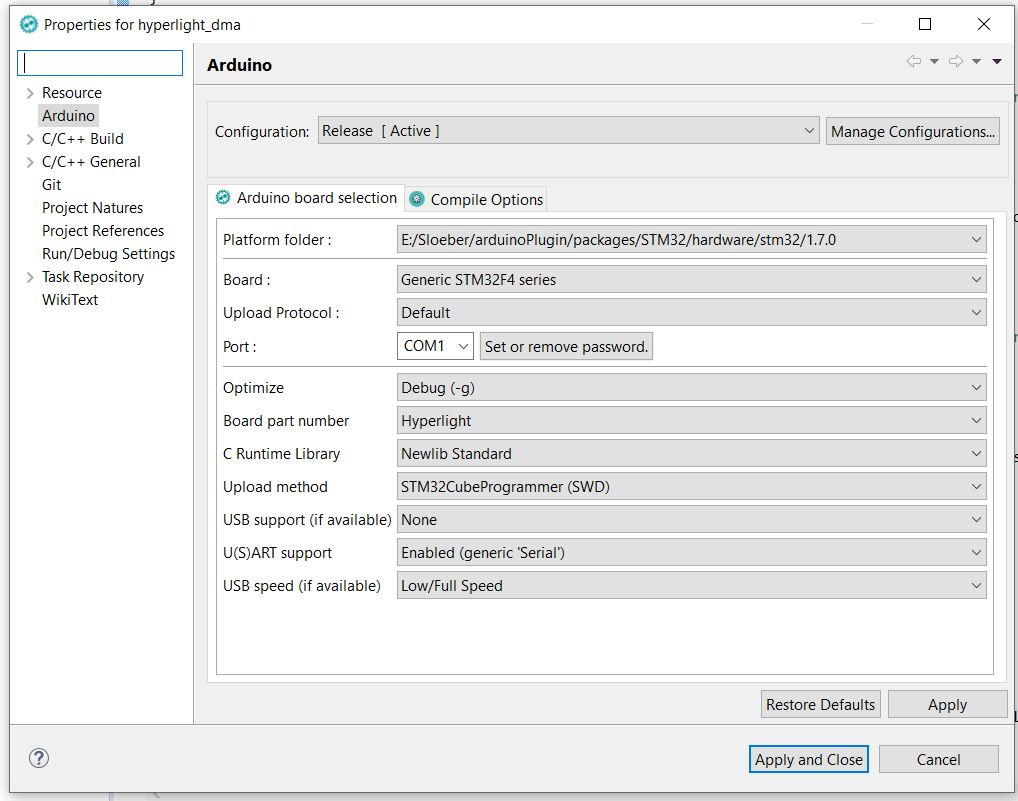
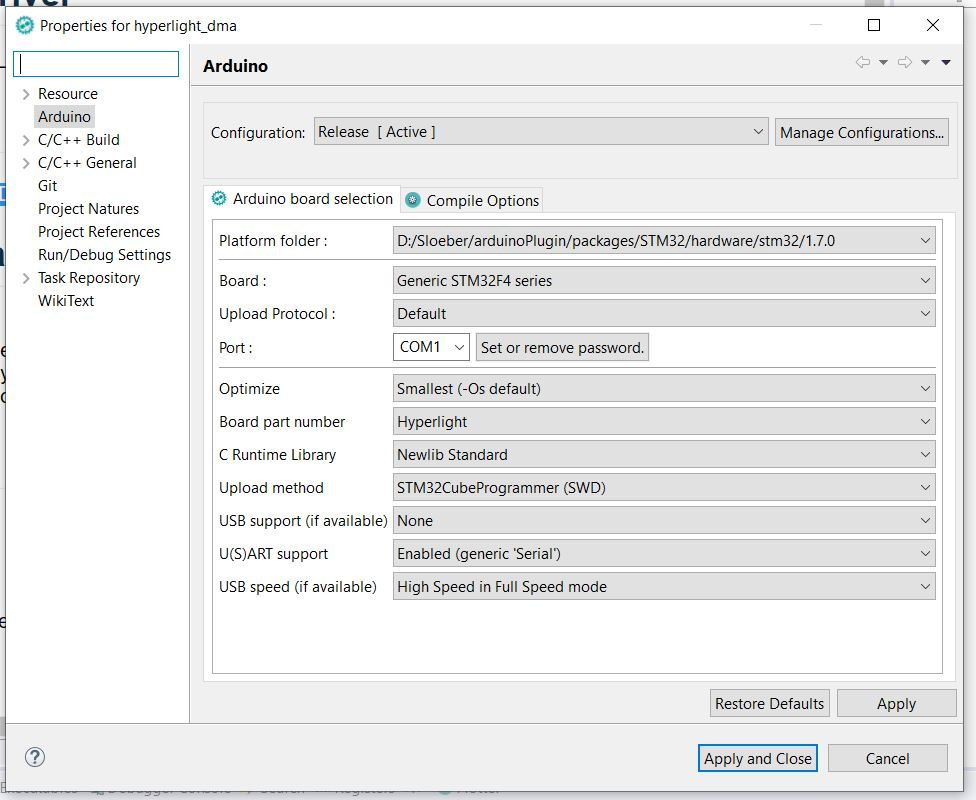
updated readme.md

diff --git a/readme.md b/readme.md
@@ -64,7 +64,16 @@ or if the plain arduino IDE is used in
 ```
 
 Setting for the board:
+
+Optimize: "Smallest(-Os default)"
+
 ![alt text][properties]
+
+Add make_weak to "compiler Options"
+```
+-include "C:\Users\ahoel\Documents\sloeber-workspace\hyperlight_dma\make_weak.h"
+```
+![alt text][properties2]
 
 ### How to Debug
 See the wiki form the STM32 Core
